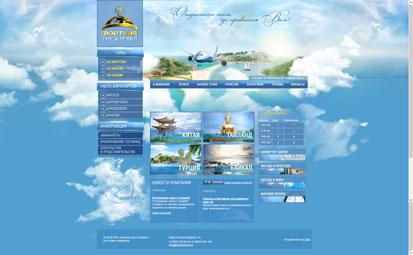
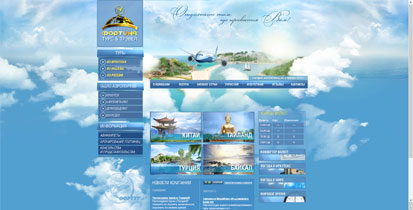
ed

diff --git a/style.css b/style.css
@@ -134,6 +134,9 @@ input.btn {display:block; height:30px; padding:0 15px 0 15px; float:left; border
 
 #slider .thumbholder img 
 {
-background:#000;
-padding:3px;
+background: rgba(255,255,255,0.4);
+padding: 6px;
+border: 1px solid white;
+border-right: black;
+border-bottom: gray;
 }
